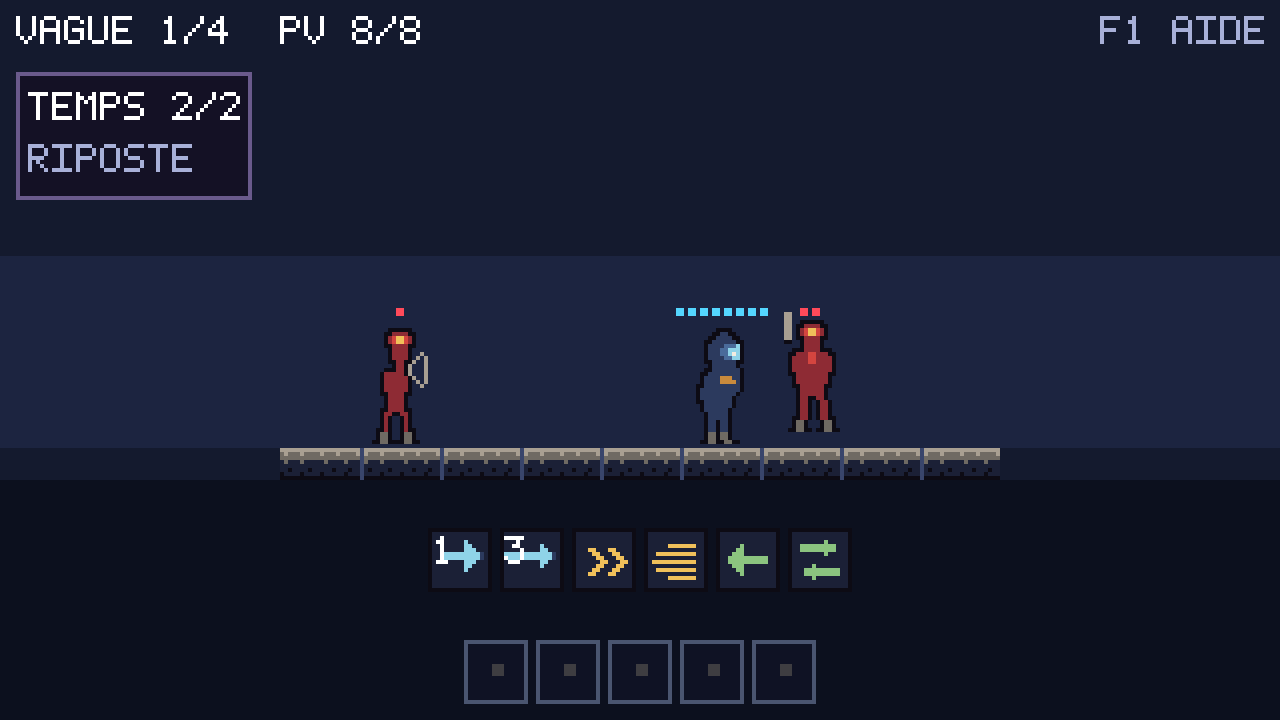
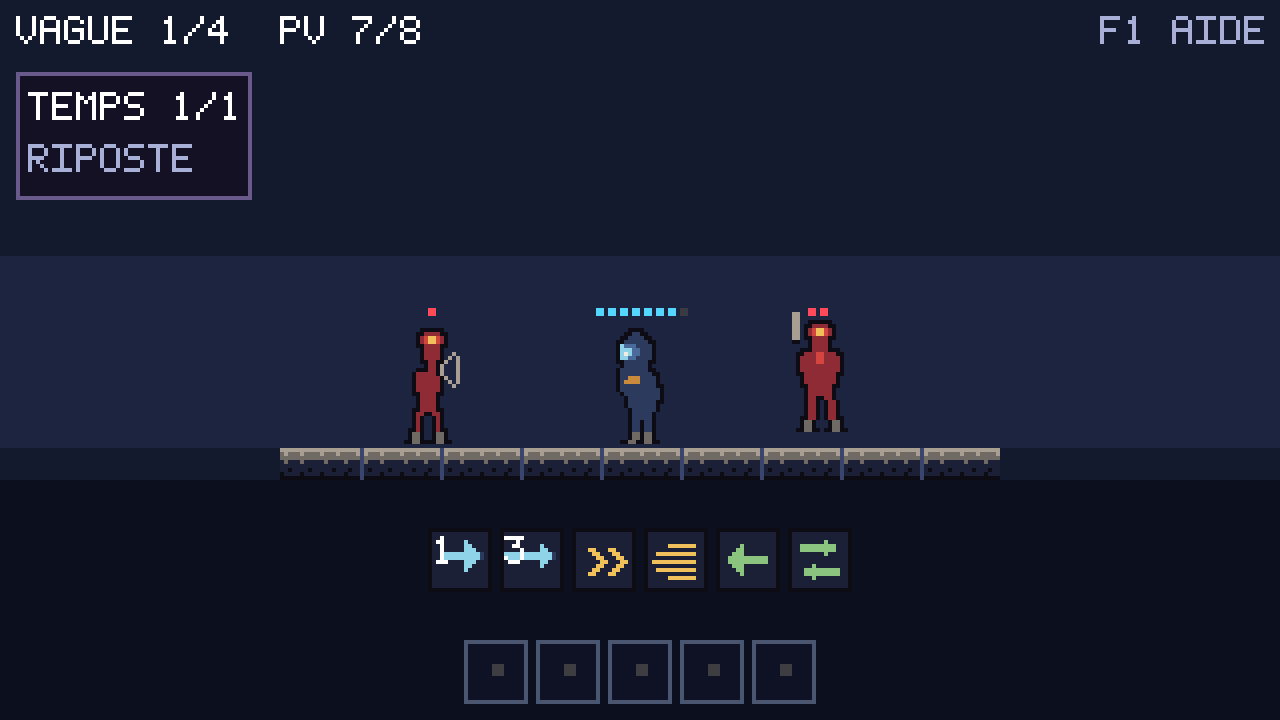
« L'archer ne tire jamais » — il tirait, rien ne le montrait
Mesure avant diagnostic : sur cinq mille observations, l'archer annonce une
attaque 4274 fois, avance 27 fois, attend 738 fois. Il touche des le premier
tour d'une partie ordinaire, huit points de vie a sept. Le modele n'avait rien.

LE DEFAUT ETAIT DANS CE QUE L'ECRAN MONTRE, et il etait general : la fente
etait reservee au heros, parce qu'une tuile designe sa case visee et que la
riposte ennemie n'en designe aucune. Pendant toute la phase ennemie, AUCUN
ASSAILLANT NE BOUGEAIT D'UN PIXEL. Un sabreur au contact s'en tirait par
accident — le tressaillement du heros arrive juste a cote de lui et l'oeil fait
le lien. L'archer, a trois cases, ne reliait rien a rien. Il rendait visible un
defaut qui les concernait tous.

Le modele sait desormais QUI a touche — troisieme concession a la vue, apres le
numero des figures et l'imminence. Ceux-la se fendent vers le heros sur le
temps de la riposte, et sur ce temps uniquement : les leur donner pendant la
salve du joueur les ferait attaquer quand ce n'est pas leur tour.

ET LA CORRECTION N'AVAIT AUCUN TEMOIN : les 106 planches sont restees conformes
apres l'avoir posee, parce que sur l'ecran de riposte l'ennemi AVANCAIT au lieu
de frapper. Cet ecran joue maintenant un demi-tour — il consomme un tour sans
deplacer le heros, donc l'archer reste a portee et tire. Verifie par mesure de
pixels et non a l'oeil : treize mille pixels de difference entre la mi-course
et l'etat pose, sur les deux bandes ou se tiennent les assaillants.
[…]

diff --git a/progress.html b/progress.html
@@ -91,7 +91,7 @@
 <header>
   <h1>STARFALL</h1>
   <div class="sub">Tactique 2D au tour par tour · grille linéaire · file d'actions · libGDX / Java</div>
-  <div class="stamp">Dernière mise à jour : 6 août 2026 — <b style="color:var(--gold)">M1 à M10 revus et corrigés · 545 tests verts · 106 planches sur 15 &eacute;crans · la tranche est gagnable</b></div>
+  <div class="stamp">Dernière mise à jour : 6 août 2026 — <b style="color:var(--gold)">M1 à M10 revus et corrigés · 545 tests verts · 105 planches sur 15 &eacute;crans · la tranche est gagnable</b></div>
 </header>
 
 <div class="banner warn">
@@ -342,7 +342,7 @@
 
 <figure class="sheet">
   <img src="captures/actuel/riposte.png" alt="Starfall, la riposte ennemie &agrave; mi-course">
-  <figcaption><b>La riposte ennemie, saisie &agrave; mi-course &mdash; un temps qui n&rsquo;existait pas.</b> Le h&eacute;ros a fait un pas ; l&rsquo;ennemi r&eacute;pond en avan&ccedil;ant d&rsquo;une case, et on le voit passer. Le panneau nomme le moment : <code>TEMPS 2/2 &middot; RIPOSTE</code>, et non le nom d&rsquo;une tuile, puisque ce temps-l&agrave; n&rsquo;est pas du joueur. Remarquer ce qui <b>manque</b> : ni bande de menace, ni glyphe d&rsquo;intention, ni rep&egrave;re de h&eacute;ros &mdash; les calques du repos se taisent pendant un d&eacute;roul&eacute;, et cette planche le v&eacute;rifie sur un &eacute;cran de plus.</figcaption>
+  <figcaption><b>&laquo; L&rsquo;archer ne tire jamais &raquo; &mdash; il tirait, mais rien ne le montrait.</b> Mesure : sur cinq mille observations il annonce une attaque <b>quatre fois sur cinq</b>, et il touche d&egrave;s le premier tour. Le d&eacute;faut &eacute;tait &agrave; l&rsquo;&eacute;cran : la fente &eacute;tait r&eacute;serv&eacute;e au h&eacute;ros, si bien qu&rsquo;<b>aucun assaillant ne faisait le moindre geste</b> pendant la riposte. Un sabreur au contact s&rsquo;en tirait &mdash; le tressaillement du h&eacute;ros arrive juste &agrave; c&ocirc;t&eacute; de lui et l&rsquo;&oelig;il fait le lien. L&rsquo;archer, &agrave; trois cases, restait parfaitement immobile. Ici les deux se fendent vers lui, du m&ecirc;me geste que le sien : la m&ecirc;me phrase visuelle, dite dans l&rsquo;autre sens.</figcaption>
 </figure>
 
 <figure class="sheet">
@@ -356,6 +356,18 @@
 </figure>
 
 <h2>Journal de review</h2>
+
+<div class="rev pass">
+  <div class="hd">Rapport de jeu &mdash; <b>&laquo; L&rsquo;archer ne tire jamais &raquo;</b></div>
+  <p><b>Il tirait.</b> Mesure avant diagnostic : sur cinq mille observations, l&rsquo;archer annonce une attaque <b>4274 fois</b>, avance 27 fois, attend 738 fois. Il touche d&egrave;s le premier tour d&rsquo;une partie ordinaire, huit points de vie &agrave; sept. Le mod&egrave;le n&rsquo;avait rien.</p>
+
+  <p><b>Le d&eacute;faut &eacute;tait dans ce que l&rsquo;&eacute;cran montre</b>, et il &eacute;tait g&eacute;n&eacute;ral : la fente &eacute;tait r&eacute;serv&eacute;e au h&eacute;ros, parce qu&rsquo;une tuile d&eacute;signe sa case vis&eacute;e et que la riposte ennemie n&rsquo;en d&eacute;signe aucune. Pendant toute la phase ennemie, <b>aucun assaillant ne bougeait d&rsquo;un pixel</b>. Un sabreur au contact s&rsquo;en tirait par accident &mdash; le tressaillement du h&eacute;ros arrive juste &agrave; c&ocirc;t&eacute; de lui, et l&rsquo;&oelig;il fait le lien tout seul. L&rsquo;archer, lui, tire de trois cases : rien ne reliait son coup &agrave; sa cible. Il rendait visible un d&eacute;faut qui les concernait tous.</p>
+
+  <p>Le mod&egrave;le sait d&eacute;sormais <b>qui</b> a touch&eacute; &mdash; une concession de plus &agrave; la vue, et la troisi&egrave;me seulement, apr&egrave;s le num&eacute;ro des figures et l&rsquo;imminence. Ceux-l&agrave; se fendent vers le h&eacute;ros sur le temps de la riposte, et sur ce temps uniquement : les leur donner pendant la salve du joueur les ferait attaquer quand ce n&rsquo;est pas leur tour, soit un mensonge de plus au lieu d&rsquo;un de moins.</p>
+
+  <p style="margin-bottom:0"><b>Et la correction n&rsquo;avait aucun t&eacute;moin</b> : les 106 planches sont rest&eacute;es conformes apr&egrave;s l&rsquo;avoir pos&eacute;e, parce que sur l&rsquo;&eacute;cran de riposte l&rsquo;ennemi <i>avan&ccedil;ait</i> au lieu de frapper. Cet &eacute;cran joue maintenant un <b>demi-tour</b> : il consomme un tour sans d&eacute;placer le h&eacute;ros, donc l&rsquo;archer reste &agrave; port&eacute;e et tire. V&eacute;rifi&eacute; par mesure de pixels et non &agrave; l&rsquo;&oelig;il &mdash; treize mille pixels de diff&eacute;rence entre la mi-course et l&rsquo;&eacute;tat pos&eacute;, sur les deux bandes o&ugrave; se tiennent les assaillants.</p>
+</div>
+
 
 <div class="rev pass">
   <div class="hd">Contr&ocirc;le p&eacute;riodique &mdash; <b>Deux nombres, deux unit&eacute;s, une seule question</b></div>

diff --git a/core/src/main/java/com/starfall/scene/Choreography.java b/core/src/main/java/com/starfall/scene/Choreography.java
@@ -4,6 +4,7 @@ import com.starfall.game.Arena;
 
 import java.util.ArrayList;
 import java.util.HashMap;
+import java.util.Set;
 import java.util.List;
 import java.util.Map;
 
@@ -117,6 +118,26 @@ public final class Choreography {
      */
     public static List<Placement> at(List<Arena.Figure> before, List<Arena.Figure> after,
             int aim, float t) {
+        return at(before, after, aim, t, Set.of());
+    }
+
+    /**
+     * La m&ecirc;me chose, en sachant <b>qui a frapp&eacute;</b>.
+     *
+     * <p>La fente &eacute;tait r&eacute;serv&eacute;e au h&eacute;ros, parce qu'une tuile dit sa
+     * case vis&eacute;e et que la riposte ennemie n'en d&eacute;signe aucune. Cons&eacute;quence :
+     * pendant toute la phase ennemie, <b>aucun assaillant ne faisait le moindre geste</b>. Un
+     * sabreur au contact s'en tirait &mdash; le tressaillement du h&eacute;ros arrive juste
+     * &agrave; c&ocirc;t&eacute; de lui, et l'&oelig;il fait le lien. L'archer non : il tire de
+     * trois cases et reste parfaitement immobile, si bien qu'on jurerait qu'il ne tire jamais.
+     * Mesure : il annonce une attaque quatre fois sur cinq.
+     *
+     * <p>Les num&eacute;ros donn&eacute;s ici sont ceux qui ont touch&eacute;. Ils se fendent vers
+     * le h&eacute;ros, du m&ecirc;me geste que lui &mdash; c'est la m&ecirc;me phrase visuelle, dite
+     * dans l'autre sens.
+     */
+    public static List<Placement> at(List<Arena.Figure> before, List<Arena.Figure> after,
+            int aim, float t, Set<Long> strikers) {
         float time = Math.min(1f, Math.max(0f, t));
         Map<Long, Arena.Figure> was = index(before);
         Map<Long, Arena.Figure> now = index(after);
@@ -139,6 +160,10 @@ public final class Choreography {
             } else if (figure.hero() && lunges) {
                 placements.add(new Placement(figure, figure.cell(), aim,
                         lunge(time, Math.abs(aim - figure.cell())), 0f, 1f));
+            } else if (strikers.contains(figure.id()) && heroCell != Integer.MIN_VALUE) {
+                placements.add(new Placement(figure, figure.cell(),
+                        figure.cell() + Integer.signum(heroCell - figure.cell()),
+                        lunge(time, 1), 0f, 1f));
             } else if (figure.health() < previous.health()) {
                 // Reculer demande de savoir DE QUOI l'on recule. Une tuile le dit - sa case visee
                 // est la direction du coup. La riposte ennemie ne le dit pas : plusieurs ennemis

diff --git a/core/src/main/java/com/starfall/scene/Playback.java b/core/src/main/java/com/starfall/scene/Playback.java
@@ -3,6 +3,7 @@ package com.starfall.scene;
 import com.starfall.game.Arena;
 
 import java.util.ArrayList;
+import java.util.Set;
 import java.util.List;
 
 /**
@@ -42,6 +43,8 @@ public final class Playback {
     private List<Arena.Figure> opening = List.of();
     /** Rang du temps de riposte, ou {@code -1} : voir {@link #showsResponse()}. */
     private int response = -1;
+    /** Ceux qui ont touch&eacute; le h&eacute;ros : ils se fendent sur le temps de riposte. */
+    private Set<Long> strikers = Set.of();
     private int index;
     private float elapsed;
 
@@ -54,6 +57,13 @@ public final class Playback {
      */
     public void start(List<Arena.Beat> actionBeats, List<Arena.Figure> openingBoard,
             List<Arena.Figure> settledBoard) {
+        start(actionBeats, openingBoard, settledBoard, Set.of());
+    }
+
+    /** La m&ecirc;me chose, en sachant qui a touch&eacute; le h&eacute;ros. */
+    public void start(List<Arena.Beat> actionBeats, List<Arena.Figure> openingBoard,
+            List<Arena.Figure> settledBoard, Set<Long> whoStruck) {
+        strikers = Set.copyOf(whoStruck);
         List<Arena.Beat> kept = keepWhatMoves(actionBeats, openingBoard, settledBoard);
         if (kept.isEmpty()) {
             settle();
@@ -236,7 +246,11 @@ public final class Playback {
         }
         Arena.Beat beat = beats.get(index);
         List<Arena.Figure> before = index == 0 ? opening : beats.get(index - 1).board();
-        return Choreography.at(before, beat.board(), beat.cell(), progress());
+        // Les assaillants ne se fendent que sur le temps de la RIPOSTE : c'est le seul ou ils ont
+        // frappe. Les leur donner sur les temps de tuiles les ferait attaquer pendant la salve du
+        // joueur, ce qui serait un mensonge de plus au lieu d'un de moins.
+        return Choreography.at(before, beat.board(), beat.cell(), progress(),
+                showsResponse() ? strikers : Set.of());
     }
 
     /**
@@ -273,6 +287,7 @@ public final class Playback {
         beats = List.of();
         opening = List.of();
         response = -1;
+        strikers = Set.of();
         index = 0;
         elapsed = 0f;
     }

diff --git a/core/src/main/java/com/starfall/game/Arena.java b/core/src/main/java/com/starfall/game/Arena.java
@@ -1,6 +1,8 @@
 package com.starfall.game;
 
 import java.util.ArrayList;
+import java.util.LinkedHashSet;
+import java.util.Set;
 import java.util.List;
 
 /**
@@ -279,6 +281,9 @@ public final class Arena {
 
     private final List<Beat> beats = new ArrayList<>();
 
+    /** Ceux qui ont touch&eacute; le h&eacute;ros pendant l'action en cours. Voir {@link #strikers()}. */
+    private final Set<Long> strikers = new LinkedHashSet<>();
+
     /** Le plateau tel qu'il était juste avant l'action en cours. Voir {@link #opening()}. */
     private List<Figure> opening = List.of();
 
@@ -286,6 +291,7 @@ public final class Arena {
     private void beginAction() {
         killsThisAction = 0;
         beats.clear();
+        strikers.clear();
         // Le plateau AVANT que quoi que ce soit ne bouge. Les temps disent chacun l'état qui suit
         // la tuile qui vient de jouer ; il manquait celui qui précède la première, sans quoi le
         // premier temps d'une salve n'a rien à quoi se comparer et sa figure apparaît déjà arrivée.
@@ -653,7 +659,22 @@ public final class Arena {
         if (grid.occupantAt(cell) == hero) {
             heroHits++;
             hero.damage(enemy.blowDamage());
+            strikers.add(enemy.id());
         }
+    }
+
+    /**
+     * Qui a port&eacute; un coup au h&eacute;ros pendant la derni&egrave;re action.
+     *
+     * <p>Le mod&egrave;le n'en a pas besoin ; la <b>vue</b> si, et c'est la seule raison. Un ennemi
+     * qui frappe sans se d&eacute;placer ne bougeait pas d'un pixel : le h&eacute;ros perdait des
+     * points et rien ne disait d'o&ugrave;. Le cas limite est l'<b>archer</b>, qui tire de trois
+     * cases et reste parfaitement immobile &mdash; mesur&eacute; sur cinq mille observations, il
+     * annonce une attaque quatre fois sur cinq, et pourtant on jurerait qu'il ne tire jamais.
+     * C'&eacute;tait vrai de tous les assaillants, l'archer le rendait seulement visible.
+     */
+    public Set<Long> strikers() {
+        return Set.copyOf(strikers);
     }
 
     /**

diff --git a/core/src/main/java/com/starfall/scene/RiposteScript.java b/core/src/main/java/com/starfall/scene/RiposteScript.java
@@ -40,9 +40,17 @@ public final class RiposteScript {
     /** Nom de scène qui sélectionne ce scénario. */
     public static final String SCENE_NAME = "riposte";
 
-    /** Un pas, et rien d'autre. Ce qui suit n'est plus du joueur. */
+    /**
+     * Un demi-tour, et rien d'autre.
+     *
+     * <p>Il consomme un tour <b>sans déplacer le héros</b>, ce qui est exactement ce
+     * qu'il faut : l'archer reste à trois cases, donc à sa portée, et tire. Un pas
+     * vers la droite l'aurait sorti de portée et la riposte n'aurait montré qu'un
+     * déplacement &mdash; ce que cet écran faisait, et c'est pourquoi la fente des
+     * assaillants n'avait aucun témoin.
+     */
     public static final List<Function<Arena, ActionResult>> ACTIONS = List.of(
-            a -> a.step(Direction.RIGHT));
+            a -> a.step(Direction.LEFT));
 
     /** Première image qui montre un temps du déroulé. */
     public static final int FIRST_BEAT_FRAME = ACTIONS.size();
@@ -55,10 +63,9 @@ public final class RiposteScript {
      * quand ce jeu n'animait rien.
      */
     public static final float[][] MOMENTS = {
-            {1f, 0.50f},
+            {1f, 0.35f},
+            {1f, 0.60f},
             {1f, 1f},
-            {2f, 0.50f},
-            {2f, 1f},
     };
 
     private RiposteScript() {

diff --git a/core/src/main/java/com/starfall/scene/ArenaScene.java b/core/src/main/java/com/starfall/scene/ArenaScene.java
@@ -225,7 +225,8 @@ public final class ArenaScene implements Scene {
         // Le déroulé démarre ici pour la raison qui a fait mettre l'aide ici : c'est le seul
         // endroit par lequel passent les huit gestes qui déclenchent une action. Réparti sur
         // chacun, il aurait été oublié par le neuvième.
-        playback.start(arena.beats(), arena.opening(), arena.snapshot());
+        playback.start(arena.beats(), arena.opening(), arena.snapshot(),
+                    arena.strikers());
         return true;
     }
 
@@ -261,7 +262,8 @@ public final class ArenaScene implements Scene {
         playback.settle();
         int beat = scenario.playbackBeatAt(frameIndex);
         if (beat > 0) {
-            playback.start(arena.beats(), arena.opening(), arena.snapshot());
+            playback.start(arena.beats(), arena.opening(), arena.snapshot(),
+                    arena.strikers());
             playback.seek(beat, scenario.playbackProgressAt(frameIndex));
         }
         if (frameIndex > scenario.size() && !exhaustionReported) {
